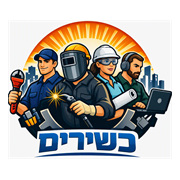
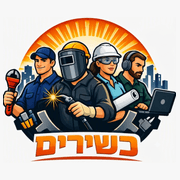
feat(מותג ודף הבית): לוגו חדש בכל נקודות המיתוג, ו"לשאר בעלי המקצוע" בעמודים
לוגו:
- מקור חדש: לוגו-בעלי-מקצוע-כשירים.png (מחליף את בעלי-מקצוע-כשירים.png)
- כל הנגזרות נבנו מחדש: logo-professionals (800x677), favicon (256),
  apple-touch-icon (180), og-image (1200x630) ואריח הרשת professionals.webp
- דחיסה מחדש הורידה את הלוגו מ-1.16MB ל-222KB ואת og-image מ-777KB ל-177KB
- ריפוד האייקונים בגוון #f7f7f7 שנדגם מפינת הלוגו, בלי פס לבן מסביב
- ?v=3 על כל הכתובות, כולל og-image ב-seo.ts — פייסבוק/וואטסאפ ממטמנים
  לפי כתובת, ובלי שינוי בה השיתוף היה ממשיך להראות את הלוגו הישן

דף הבית:
- הוסר הכפתור "לכלל בעלי המקצוע והעסקים" שישב מעל הכותרת שאליה הוא גלל
- הטבלה הנפתחת הוחלפה ב"לשאר בעלי המקצוע": כותרת גדולה, וכפתור שפותח את
  העסקים שלא הופיעו באף קומה למעלה — 18 בעמוד, עם ניווט בין עמודים
- כל העמודים נשארים ב-HTML ומוסתרים ב-CSS, כדי שגוגל ימשיך למצוא כל עסק

diff --git a/src/routes/+page.svelte b/src/routes/+page.svelte
@@ -167,45 +167,62 @@
 	   בעלי המקצוע, FAQ), וכן אינדקס טקסטואלי מלא בתחתית הדף שמקשר לכל עסק. */
 	const pageTitle = `בעלי מקצוע מומלצים ומדורגים בכל הארץ | ${SITE_NAME}`;
 
-	/* ═══════════ טבלת כל בעלי המקצוע ═══════════
-	   עד כאן ישבה כאן רשימה פתוחה של כל 92 בעלי המקצוע לפי תחום, והיא תפסה
-	   מסך שלם בתחתית דף הבית. עכשיו אותו תוכן בדיוק יושב בטבלה שנפתחת
-	   בכפתור. הטבלה מרונדרת תמיד ב-HTML ורק מוסתרת ב-CSS (ולא ב-{#if}) —
-	   זו הסיבה שהרשימה נולדה מלכתחילה: היא הקישור הפנימי היחיד לכל עסק ועסק,
-	   והכרטיסים למעלה מוצגים 9 בכל פעם. הסרה מה-DOM הייתה מנתקת 80 עסקים
-	   מהסריקה של גוגל ומנועי ה-AI. */
-	let showTable = $state(false);
-	/** @type {'name' | 'category' | 'city'} */
-	let sortBy = $state('category');
-	let sortDir = $state(1);
+	/* ═══════════ שאר בעלי המקצוע ═══════════
+	   עד כאן ישבה כאן טבלה שריכזה את כל 92 בעלי המקצוע. עכשיו במקומה יושבים
+	   הכרטיסים של מי שלא הופיע באף קומה למעלה, מחולקים לעמודים.
 
-	/** @type {Array<{ key: 'name' | 'category' | 'city', label: string }>} */
-	const TABLE_COLS = [
-		{ key: 'name', label: 'שם העסק' },
-		{ key: 'category', label: 'תחום' },
-		{ key: 'city', label: 'עיר' }
-	];
+	   כל העמודים מרונדרים תמיד ב-HTML ורק הלא-נוכחיים מוסתרים ב-CSS (ולא
+	   ב-{#if}) — זו הסיבה שהרשימה הזו נולדה מלכתחילה: היא הקישור הפנימי היחיד
+	   לרוב העסקים, והכרטיסים למעלה מוצגים 9 בלבד. הסרה מה-DOM הייתה מנתקת
+	   עשרות עסקים מהסריקה של גוגל ומנועי ה-AI. התמונות נטענות ב-loading="lazy",
+	   ולכן עמודים מוסתרים לא מושכים בייטים. */
+	let showRest = $state(false);
+	let restPage = $state(0);
 
-	/** @param {'name' | 'category' | 'city'} col */
-	function sortTable(col) {
-		if (sortBy === col) sortDir = -sortDir;
-		else {
-			sortBy = col;
-			sortDir = 1;
-		}
-	}
+	/* 18 בעמוד: שש שורות של שלושה בדסקטופ, תשע שורות של שניים בנייד — בערך
+	   מסך מלא אחרי שהפרסומות לוקחות את חלקן, ומתחלק בלי שארית בשתי הפריסות. */
+	const REST_PAGE_SIZE = 18;
 
-	const tableRows = $derived(
-		[...businesses].sort((a, b) => {
-			const key = /** @param {any} x */ (x) => String(x[sortBy] ?? '');
-			// שובר-שוויון קבוע לפי שם: בלעדיו סדר הכרטיסיות בתוך תחום מתהפך
-			// בכל מיון חוזר, והטבלה נראית כאילו היא "מתערבבת" מעצמה
-			return (
-				sortDir * key(a).localeCompare(key(b), 'he') ||
-				String(a.name).localeCompare(String(b.name), 'he')
-			);
-		})
+	// "שאר" = מי שלא מוצג באף אחת מהקומות שמעל (מדורגים / שנתווספו / כלל העסקים),
+	// כדי שהמשתמש לא יפגוש כאן שוב את אותם כרטיסים שכבר גלל דרכם
+	const shownAbove = $derived(
+		new Set([...topRated, ...recentBusinesses, ...displayedBusinesses].map((b) => b.id))
 	);
+	const restBusinesses = $derived(businesses.filter((b) => !shownAbove.has(b.id)));
+
+	const restPageCount = $derived(Math.max(1, Math.ceil(restBusinesses.length / REST_PAGE_SIZE)));
+	const restPages = $derived(
+		Array.from({ length: restPageCount }, (_, i) =>
+			restBusinesses.slice(i * REST_PAGE_SIZE, (i + 1) * REST_PAGE_SIZE)
+		)
+	);
+	// נגזר ולא מתוקן ב-$effect: מספר העמודים מתכווץ כשנפתחים "המדורגים ביותר",
+	// והצמדה בתוך אפקט הייתה כותבת למצב שהיא עצמה קוראת
+	const currentRestPage = $derived(Math.min(restPage, restPageCount - 1));
+
+	/* חלון מספרי העמודים: עד 7 עמודים מציגים הכל, ומעבר לזה רק ראשון, אחרון
+	   והשכנים של הנוכחי — אחרת שורת העמודים נשברת לשתי שורות ככל שהאינדקס גדל */
+	const restPageNumbers = $derived.by(() => {
+		if (restPageCount <= 7) return Array.from({ length: restPageCount }, (_, i) => i);
+		const near = [0, restPageCount - 1, currentRestPage - 1, currentRestPage, currentRestPage + 1];
+		return [...new Set(near)].filter((n) => n >= 0 && n < restPageCount).sort((a, b) => a - b);
+	});
+
+	/** @param {number} page */
+	function goToRestPage(page) {
+		restPage = Math.min(Math.max(page, 0), restPageCount - 1);
+		// גלילה חזרה לראש הבלוק: בלעדיה מעבר עמוד משאיר את המשתמש בתחתית
+		// הרשימה הקודמת, מול כרטיסים שהתחלפו מתחתיו בלי שיראה את זה
+		const el = document.getElementById('rest-professionals');
+		if (!el) return;
+		const header = document.querySelector('header');
+		const top =
+			el.getBoundingClientRect().top + window.scrollY - ((header?.offsetHeight ?? 0) + 12);
+		window.scrollTo({
+			top: Math.max(0, top),
+			behavior: window.matchMedia('(prefers-reduced-motion: reduce)').matches ? 'auto' : 'smooth'
+		});
+	}
 
 	// ה-FAQPage אינו כאן יותר: ההסבר והשאלות הנפוצות עברו ללשונית "אודות"
 	// שבדף המידע (/policy), והסכימה נדדה לשם — גוגל דורש שהסכימה תשקף טקסט
@@ -429,14 +446,6 @@
 							<BusinessCard {business} />
 						{/each}
 					</div>
-					<div class="mt-8 flex justify-center">
-						<button
-							onclick={scrollToResults}
-							class="rounded-full border border-gray-700 px-6 py-2.5 text-sm font-semibold text-blue-400 transition hover:border-blue-500 hover:text-blue-300"
-						>
-							{t.allProfessionals}
-						</button>
-					</div>
 				</div>
 			{/if}
 
@@ -471,94 +480,99 @@
 			</div>
 		{/if}
 
-		<!-- ═══ טבלת כל בעלי המקצוע ═══
-		     הכרטיסים למעלה מוצגים 9 בכל פעם ("טען עוד"), ולכן רובם אינם מקושרים
-		     ב-HTML הראשון. הטבלה הזו מקשרת לכל עסק ועסק, וכך גוגל מגלה ומאנדקס
-		     את כולם — אבל היא סגורה עד שלוחצים, כדי שלא תתפוס מסך שלם בתחתית
+		<!-- ═══ שאר בעלי המקצוע ═══
+		     הכרטיסים למעלה מוצגים 9 בלבד, ולכן בלי הבלוק הזה רוב העסקים אינם
+		     מקושרים ב-HTML הראשון. כל העמודים יושבים ב-HTML וגוגל מגלה דרכם כל
+		     עסק ועסק — אבל הבלוק סגור עד שלוחצים, כדי שלא יתפוס מסך שלם בתחתית
 		     דף הבית. hidden ב-CSS ולא {#if}: התוכן חייב להישאר ב-HTML הראשון. -->
-		{#if businesses.length > 0}
+		{#if restBusinesses.length > 0}
 			<section
-				class="mt-20 border-t border-gray-800 pt-10 text-center"
-				aria-labelledby="full-index-title"
+				id="rest-professionals"
+				class="mt-20 border-t border-gray-800 pt-10"
+				aria-labelledby="rest-title"
 			>
-				<h2 id="full-index-title" class="mb-2 text-xl font-extrabold text-gray-100">
-					כל בעלי המקצוע לפי תחום
-				</h2>
-				<p class="mb-5 text-sm text-gray-400">
-					{businesses.length} בעלי מקצוע בטבלה אחת.
-				</p>
+				<div class="text-center">
+					<h2
+						id="rest-title"
+						class="bg-gradient-to-r from-cyan-400 via-blue-400 to-indigo-400 bg-clip-text text-2xl font-extrabold text-transparent sm:text-4xl"
+					>
+						לשאר בעלי המקצוע
+					</h2>
+					<p class="mt-2 mb-5 text-sm text-gray-400">
+						עוד {restBusinesses.length} בעלי מקצוע שלא הופיעו למעלה.
+					</p>
 
-				<button
-					type="button"
-					onclick={() => (showTable = !showTable)}
-					aria-expanded={showTable}
-					aria-controls="all-businesses-table"
-					class="inline-flex items-center gap-2 rounded-full border border-blue-500/40 bg-gradient-to-r from-blue-900/50 to-indigo-900/50 px-6 py-3 text-sm font-black text-blue-200 shadow-lg transition-all hover:border-blue-400/70 hover:from-blue-900/70 hover:to-indigo-900/70 active:scale-95"
-				>
-					<span aria-hidden="true">📋</span>
-					{showTable ? 'סגירת הטבלה' : 'פתיחת הטבלה'}
-					<span class="text-xs" aria-hidden="true">{showTable ? '▲' : '▼'}</span>
-				</button>
+					<button
+						type="button"
+						onclick={() => (showRest = !showRest)}
+						aria-expanded={showRest}
+						aria-controls="rest-list"
+						class="inline-flex items-center gap-2 rounded-full border border-blue-500/40 bg-gradient-to-r from-blue-900/50 to-indigo-900/50 px-6 py-3 text-sm font-black text-blue-200 shadow-lg transition-all hover:border-blue-400/70 hover:from-blue-900/70 hover:to-indigo-900/70 active:scale-95"
+					>
+						<span aria-hidden="true">👷</span>
+						{showRest ? 'סגירת הרשימה' : 'הצגת שאר בעלי המקצוע'}
+						<span class="text-xs" aria-hidden="true">{showRest ? '▲' : '▼'}</span>
+					</button>
+				</div>
 
-				<div id="all-businesses-table" class="mt-6" class:hidden={!showTable}>
-					<!-- overflow-x על העטיפה: בנייד הטבלה רחבה מהמסך, וגלילה אופקית
-					     בתוך המכל עדיפה על דחיסת עמודות עד לאי-קריאוּת -->
-					<div class="overflow-x-auto rounded-2xl border border-gray-800">
-						<table class="w-full min-w-[34rem] border-collapse text-right text-sm">
-							<caption class="sr-only">
-								כל בעלי המקצוע באינדקס — לחיצה על כותרת עמודה ממיינת לפיה
-							</caption>
-							<thead class="bg-gray-900/80 text-xs text-gray-300">
-								<tr>
-									<th scope="col" class="w-10 px-3 py-3 font-bold">#</th>
-									{#each TABLE_COLS as col (col.key)}
-										<th
-											scope="col"
-											class="px-3 py-3 font-bold"
-											aria-sort={sortBy === col.key
-												? sortDir === 1
-													? 'ascending'
-													: 'descending'
-												: 'none'}
-										>
-											<button
-												type="button"
-												onclick={() => sortTable(col.key)}
-												class="inline-flex items-center gap-1 hover:text-blue-300"
-											>
-												{col.label}
-												<span class="text-[0.65rem] opacity-70" aria-hidden="true">
-													{sortBy === col.key ? (sortDir === 1 ? '▲' : '▼') : '↕'}
-												</span>
-											</button>
-										</th>
-									{/each}
-									<th scope="col" class="px-3 py-3 font-bold">ההטבה לחברי הקהילה</th>
-								</tr>
-							</thead>
-							<tbody>
-								{#each tableRows as b, i (b.id)}
-									<tr class="border-t border-gray-800/80 even:bg-gray-900/30 hover:bg-gray-800/50">
-										<td class="px-3 py-2 text-xs text-gray-600 tabular-nums">{i + 1}</td>
-										<td class="px-3 py-2">
-											<a
-												href="/business/{b.id}"
-												class="font-medium text-gray-200 hover:text-blue-400 hover:underline"
-											>
-												{b.name}
-											</a>
-										</td>
-										<td class="px-3 py-2 whitespace-nowrap text-gray-400">
-											<span aria-hidden="true">{categoryIcon(b.category)}</span>
-											{b.category}
-										</td>
-										<td class="px-3 py-2 text-gray-400">{b.city || '—'}</td>
-										<td class="px-3 py-2 text-gray-400">{b.discount || '—'}</td>
-									</tr>
+				<div id="rest-list" class="mt-8" class:hidden={!showRest}>
+					<!-- ההסתרה יושבת על עטיפה נטולת מחלקות-display: על הרשת עצמה
+					     היא הייתה מפסידה ל-md:grid, שגובר על hidden בברייקפוינט -->
+					{#each restPages as page, i (i)}
+						<div class:hidden={i !== currentRestPage}>
+							<div class="flex flex-wrap justify-center gap-3 md:grid md:grid-cols-3 md:gap-6">
+								{#each page as business (business.id)}
+									<BusinessCard {business} />
 								{/each}
-							</tbody>
-						</table>
-					</div>
+							</div>
+						</div>
+					{/each}
+
+					{#if restPageCount > 1}
+						<nav
+							class="mt-10 flex flex-wrap items-center justify-center gap-2"
+							aria-label="עמודי בעלי המקצוע"
+						>
+							<button
+								type="button"
+								onclick={() => goToRestPage(currentRestPage - 1)}
+								disabled={currentRestPage === 0}
+								class="rounded-full border border-gray-700 px-4 py-2 text-sm font-semibold text-blue-400 transition hover:border-blue-500 hover:text-blue-300 disabled:cursor-not-allowed disabled:opacity-40 disabled:hover:border-gray-700"
+							>
+								הקודם
+							</button>
+
+							{#each restPageNumbers as n, idx (n)}
+								{#if idx > 0 && n - restPageNumbers[idx - 1] > 1}
+									<span class="px-1 text-gray-600" aria-hidden="true">…</span>
+								{/if}
+								<button
+									type="button"
+									onclick={() => goToRestPage(n)}
+									aria-current={n === currentRestPage ? 'page' : undefined}
+									class="min-w-9 rounded-full border px-3 py-2 text-sm font-bold tabular-nums transition {n ===
+									currentRestPage
+										? 'border-blue-400 bg-blue-900/50 text-blue-100'
+										: 'border-gray-700 text-gray-400 hover:border-blue-500 hover:text-blue-300'}"
+								>
+									{n + 1}
+								</button>
+							{/each}
+
+							<button
+								type="button"
+								onclick={() => goToRestPage(currentRestPage + 1)}
+								disabled={currentRestPage >= restPageCount - 1}
+								class="rounded-full border border-gray-700 px-4 py-2 text-sm font-semibold text-blue-400 transition hover:border-blue-500 hover:text-blue-300 disabled:cursor-not-allowed disabled:opacity-40 disabled:hover:border-gray-700"
+							>
+								הבא
+							</button>
+						</nav>
+
+						<p class="mt-4 text-center text-xs text-gray-500">
+							עמוד {currentRestPage + 1} מתוך {restPageCount}
+						</p>
+					{/if}
 				</div>
 			</section>
 		{/if}

diff --git a/src/routes/+layout.svelte b/src/routes/+layout.svelte
@@ -81,8 +81,8 @@
 </script>
 
 <svelte:head>
-	<link rel="icon" type="image/png" href="/favicon.png" />
-	<link rel="apple-touch-icon" href="/apple-touch-icon.png" />
+	<link rel="icon" type="image/png" href="/favicon.png?v=3" />
+	<link rel="apple-touch-icon" href="/apple-touch-icon.png?v=3" />
 	<!-- כותרת גיבוי בלבד: כל דף ציבורי דורס אותה דרך <Seo> ($lib/components/Seo.svelte) -->
 	<title>{t.title} - יוצאים לחירות</title>
 	<!-- תגי ה-Open Graph / Twitter מוגדרים פר-דף ברכיב <Seo>. תג גלובלי כאן היה
@@ -121,7 +121,7 @@
 					<!-- הלוגו גדל מעט בריחוף מעל הקישור כולו (group-hover), כדי שגם מי
 					     שהעכבר שלו מתקרב מכיוון הכותרת יקבל את הרמז שזה קישור לדף הבית. -->
 					<img
-						src="/logo-professionals.png?v=2"
+						src="/logo-professionals.png?v=3"
 						alt="לוגו בעלי מקצוע כשירים — סדר בכל עניין"
 						class="h-8 w-auto rounded-lg object-contain shadow-sm transition-transform duration-300 ease-out group-hover:scale-110 sm:h-14"
 					/>

diff --git a/src/lib/seo.ts b/src/lib/seo.ts
@@ -10,8 +10,9 @@ export const SITE_NAME = 'בעלי מקצוע כשירים';
 export const SITE_TAGLINE = 'בהנחות והטבות ייחודיות לחברי יוצאים לחירות';
 export const SITE_DESCRIPTION =
     'אינדקס בעלי מקצוע כשירים — חשמלאים, אינסטלטורים, שיפוצניקים, מזגנים, הובלות, מחשבים, עורכי דין, יופי וטיפוח, אוכל ואירועים. כל בעל מקצוע חתם על אמנת הקהילה, מדורג בידי הלקוחות ומעניק הנחה לחברי הקהילה. חיפוש לפי תחום ולפי עיר — חינם.';
-export const DEFAULT_OG_IMAGE = `${SITE_URL}/og-image.png`;
-export const SITE_LOGO = `${SITE_URL}/og-image.png`;
+/** ?v=3 — מכריח את פייסבוק/וואטסאפ לגרד מחדש אחרי החלפת הלוגו; הם ממטמנים לפי כתובת */
+export const DEFAULT_OG_IMAGE = `${SITE_URL}/og-image.png?v=3`;
+export const SITE_LOGO = `${SITE_URL}/og-image.png?v=3`;
 export const CONTACT_EMAIL = 'freedomhasbegun@gmail.com';
 
 /** בונה URL מוחלט קנוני מנתיב יחסי. */

diff --git a/src/lib/components/WelcomeScreen.svelte b/src/lib/components/WelcomeScreen.svelte
@@ -17,7 +17,7 @@
 
 	const WELCOME_MS = 7000;
 	// לוגו האתר — המשתנה היחיד שמשתנה בין אתרי הרשת
-	const LOGO_SRC = '/logo-professionals.png?v=2';
+	const LOGO_SRC = '/logo-professionals.png?v=3';
 
 	let kind = $state<'new' | 'back' | null>(null);
 	let visible = $state(false);
